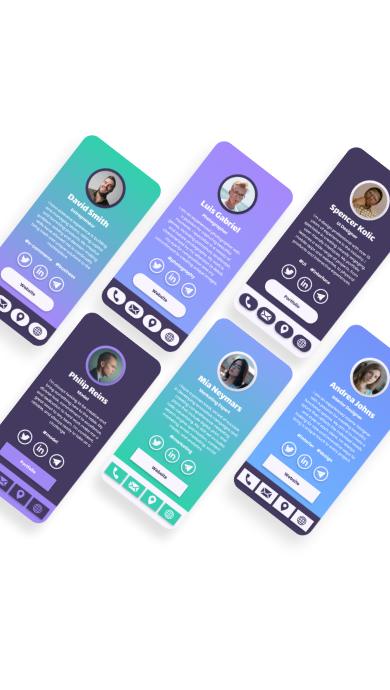
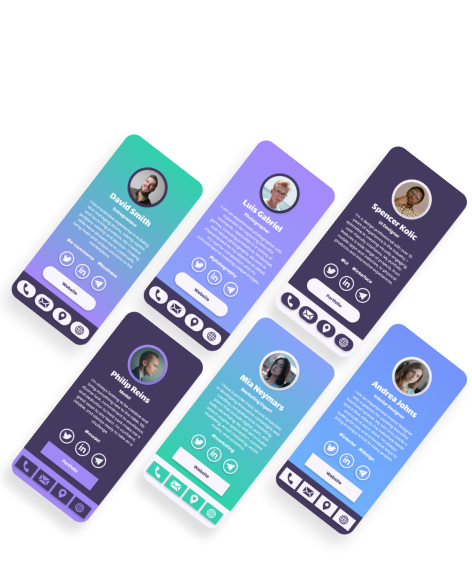
added responsive styles for hero section, added tablet styles

diff --git a/components/Hero.js b/components/Hero.js
@@ -1,31 +1,40 @@
 import Image from "next/image";
 import Container from "./Container";
 import clientsPhones from "../public/clients-phones.png";
+import clientPhonesMobile from "../public/clients-phones-mob.png";
 
 const Hero = ({ start, accent, end, text }) => {
   return (
-    <section className="pt-24 pb-48">
+    <section className="pt-9 tablet:pt-16 desktop:pt-24 pb-11 tablet:pb-80 desktop:pb-48">
       <Container>
-        <h1 className="z-10 relative font-black text-6xl inline-block max-w-xl ">
-          {start}
-          <span className="relative bg-gradient-to-l from-purple-500 via-indigo-300 to-teal-300 bg-clip-text text-transparent">
-            {accent}
-          </span>
-          {end}
-        </h1>
-        <p className="z-10 relative text-2xl py-6 mb-20">{text}</p>
-        <button className="gradient-btn" type="button">
-          Get started for free
-        </button>
-        <Image
-          src={clientsPhones}
-          alt="Clients"
-          className="absolute -bottom-48 right-0 z-1"
-        />
-        <div className="absolute -bottom-48 w-full h-60 bg-gradient-to-t from-slate-900 via-slate-900/90 to-transparent z-20"></div>
+        <div className="flex flex-col items-center tablet:block ">
+          <h1 className="z-20 relative text-center tablet:text-start font-black text-3xl tablet:text-4xl desktop:text-6xl inline-block max-w-xl ">
+            {start}
+            <span className="relative bg-gradient-to-l from-purple-500 via-indigo-300 to-teal-300 bg-clip-text text-transparent">
+              {accent}
+            </span>
+            {end}
+          </h1>
+          <p className="z-20 relative text-center tablet:text-start text-base tablet:text-xl desktop:text-2xl py-6 mb-80 tablet:mb-20">
+            {text}
+          </p>
+          <button className="gradient-btn" type="button">
+            Get started for free
+          </button>
+          <picture className="absolute tablet:w-11/12 desktop:w-auto -bottom-11 tablet:-bottom-80 desktop:-bottom-48 left-auto right-auto tablet:right-0 z-10">
+            <source srcSet={clientsPhones.src} media="(min-width: 768px)" />
+            <img
+              src={clientPhonesMobile.src}
+              alt="Clients"
+              className="object-none tablet:object-contain"
+            />
+          </picture>
 
-        <div className="absolute left-0 -top-24 w-1/3 rounded-full h-full blur-2xl bg-gradient-to-b via-teal-300/30 from-purple-300/30 to-transparent"></div>
-        <div className="absolute right-20 bottom-0 w-1/3 rounded-full h-full blur-2xl bg-gradient-to-t to-teal-300/30 from-purple-300/30 "></div>
+          <div className="absolute -bottom-11 tablet:-bottom-80 desktop:-bottom-48 left-0 w-full h-60 bg-gradient-to-t from-slate-900 via-slate-900/90 to-transparent z-20"></div>
+
+          <div className="absolute left-0 -top-24 w-1/3 rounded-full h-full blur-2xl bg-gradient-to-b via-teal-300/30 from-purple-300/30 to-transparent"></div>
+          <div className="absolute right-20 bottom-0 w-1/3 rounded-full h-full blur-2xl bg-gradient-to-t to-teal-300/30 from-purple-300/30 "></div>
+        </div>
       </Container>
     </section>
   );

diff --git a/components/Invite.js b/components/Invite.js
@@ -13,12 +13,12 @@ const Invite = ({
   children,
 }) => {
   return (
-    <section className="relative py-20">
+    <section className="relative py-10 tablet:py-16 desktop:py-20">
       <Container>
         <div className="flex flex-col items-center">
           {(type === "center" || type === "full-centered") && (
             <h2
-              className={`font-extrabold text-titles mb-12 inline-block w-1/2 ${
+              className={`font-extrabold text-2xl tablet:text-3xl desktop:text-titles mb-12 inline-block w-1/2 ${
                 type === "full-centered" && "text-center"
               }`}
             >
@@ -27,7 +27,7 @@ const Invite = ({
           )}
           {type !== "full-centered" && (
             <Image
-              className={`absolute z-10 ${imgPosition}`}
+              className={`tablet:absolute z-10 ${imgPosition}`}
               src={path}
               alt={title}
               width={width}
@@ -37,17 +37,19 @@ const Invite = ({
           <div className={`flex ${type === "left" && "flex-row-reverse"}`}>
             {type !== "full-centered" && <div className="w-1/2 h-full"></div>}
             <div
-              className={`flex flex-col gap-12 items-start z-30 ${
+              className={`flex flex-col gap-6 tablet:gap-8 desktop:gap-12 items-start z-30 ${
                 type === "full-centered" ? "w-full items-center" : "w-1/2"
               }`}
             >
               {(type === "left" || type === "right") && (
-                <h2 className="font-extrabold text-titles">{title}</h2>
+                <h2 className="font-extrabold text-2xl tablet:text-3xl desktop:text-titles">
+                  {title}
+                </h2>
               )}
               <p
                 className={`flex w-5/6 ${
                   type === "full-centered" && "text-center"
-                }`}
+                } text-sm tablet:text-base desktop:text-lg`}
               >
                 {text}
               </p>

diff --git a/components/LanguageSelection.js b/components/LanguageSelection.js
@@ -4,18 +4,22 @@ import Image from "next/image";
 const LanguageSelection = ({ toggleLanguageSelection, languages }) => {
   const [language, setLanguage] = useState("english");
 
+  const onClickSelect = () => {};
+
   return (
     <div className="drop-down-language">
       <div className="bg-slate-800 w-7 h-7 rotate-45 hidden tablet:block absolute -top-2 left-7 rounded-sm"></div>
-      <ul className="flex flex-col gap-9">
+      <ul className="flex flex-col gap-7">
         {languages.map(({ title, flag }) => (
-          <li key={`${title}-language-drop-down`}>
-            <Image
-              src={flag}
-              alt={`${title} language`}
-              width={33}
-              height={24}
-            />
+          <li key={`${title}-language-drop-down`} className="flex h-fit">
+            <button type="button" className="rounded-full overflow-hidden">
+              <Image
+                src={flag}
+                alt={`${title} language`}
+                width={33}
+                height={24}
+              />
+            </button>
           </li>
         ))}
       </ul>

diff --git a/styles/globals.css b/styles/globals.css
@@ -32,7 +32,7 @@
 }
 
 .gradient-btn {
-  @apply z-30 relative py-5 w-60 text-xl box-border border-2 rounded-2xl font-bold border-transparent bg-origin-border text-white  hover:bg-purple-500 hover:border-purple-500 bg-gradient-to-l from-purple-500 via-indigo-300 to-teal-300 transition-colors duration-300;
+  @apply z-30 relative py-3 desktop:py-5 w-48 tablet:w-56 desktop:w-60 text-base tablet:text-lg desktop:text-xl box-border border-2 rounded-lg tablet:rounded-xl desktop:rounded-2xl font-bold border-transparent bg-origin-border text-white  hover:bg-purple-500 hover:border-purple-500 bg-gradient-to-l from-purple-500 via-indigo-300 to-teal-300 transition-colors duration-300;
 }
 
 .invite-input {

diff --git a/pages/index.js b/pages/index.js
@@ -36,7 +36,7 @@ export default function Home() {
         width={925}
         height={580}
         type="right"
-        imgPosition="left-0 -top-8"
+        imgPosition="desktop:left-0 desktop:-top-8"
       >
         <div className="absolute -right-20 -top-44 w-1/3 rounded-full h-full blur-2xl bg-gradient-to-r via-teal-300/30 from-purple-300/40 to-transparent"></div>
         <div className="absolute -right-32 top-96 w-2/3 rounded-full h-full blur-3xl bg-gradient-to-b to-purple-300/20 from-purple-300/20 "></div>

diff --git a/components/Header.js b/components/Header.js
@@ -73,7 +73,7 @@ const Header = ({ toggleDropDownMenu, toggleLanguageSelection, languages }) => {
             <button
               onClick={toggleLanguageSelection}
               type="button"
-              className="hidden tablet:block"
+              className="hidden tablet:block rounded-full overflow-hidden"
             >
               <Image src={english} alt="language" width={33} height={24} />
             </button>

diff --git a/next.config.js b/next.config.js
@@ -1,6 +1,9 @@
 /** @type {import('next').NextConfig} */
 const nextConfig = {
   reactStrictMode: true,
+  images: {
+    deviceSizes: [768, 1440],
+  },
 };
 
 module.exports = nextConfig;
